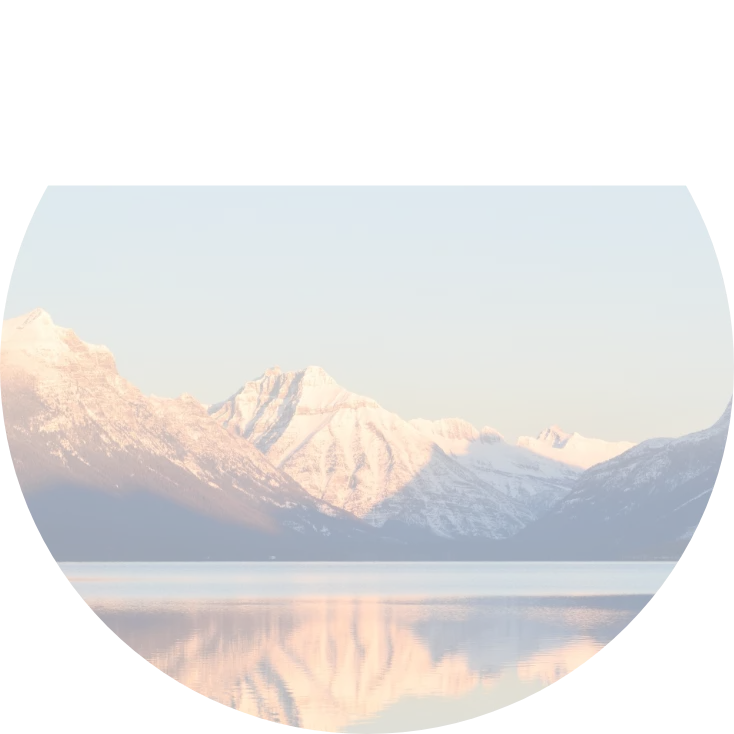
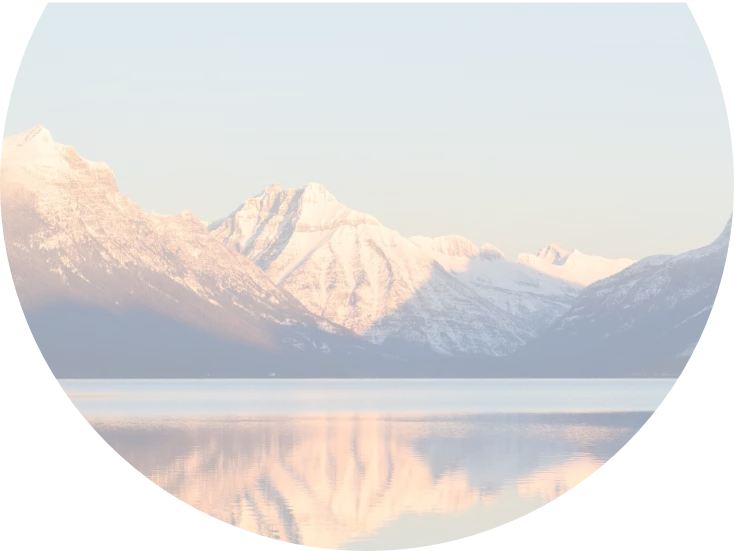
mobile views updated for login and signup

diff --git a/client/src/app/layouts/no-auth/no-auth.component.scss b/client/src/app/layouts/no-auth/no-auth.component.scss
@@ -16,7 +16,7 @@ $image-height: 300px;
 		padding: 25px;
 		position: relative;
 		
-		.mobile-bg {
+		.mobile-bg-signup {
 			width: $image-width;
 			position: fixed;
 			top: 0;
@@ -26,6 +26,29 @@ $image-height: 300px;
 				position: fixed;
 				top: -7rem;
 				right: -2rem;
+				width: $image-width;
+				height: $image-height;
+				background-color: rgba(255, 162, 90, .1);
+				border-radius: 50%;
+			}
+
+			img {
+				width: 100%;
+			}
+		}
+
+		.mobile-bg-login {
+			width: $image-width;
+			position: fixed;
+			bottom: -13rem;
+			left: 50%;
+			transform: translateX(-50%);
+
+			.circle {
+				position: fixed;
+				bottom: -1rem;
+				left: 2rem;
+				transform: translateX(-50%);
 				width: $image-width;
 				height: $image-height;
 				background-color: rgba(255, 162, 90, .1);
@@ -122,7 +145,11 @@ $image-height: 300px;
 	.no-auth-layout {
 		grid-template-columns: 1fr 1fr;
 		.left {
-			.mobile-bg {
+			.mobile-bg-signup {
+				display: none;
+			}
+
+			.mobile-bg-login {
 				display: none;
 			}
 		}

diff --git a/client/src/app/layouts/no-auth/no-auth.component.ts b/client/src/app/layouts/no-auth/no-auth.component.ts
@@ -1,4 +1,5 @@
 import { Component, OnInit } from '@angular/core';
+import { Router } from '@angular/router';
 
 @Component({
   selector: 'app-no-auth',
@@ -8,12 +9,32 @@ import { Component, OnInit } from '@angular/core';
 export class NoAuthComponent implements OnInit {
 
   isLoading = false;
+  currentUrl: string;
 
   // Bg image
-  image = '../../../../assets/mountains-circle-transparent.png';
-  constructor() { }
+  image: string;
+  constructor(private router: Router) {
+    router.events.subscribe((val) => {
+      this.setBgImage();
+    });
+  }
 
-  ngOnInit() {
+  ngOnInit() {}
+
+  setBgImage() {
+    this.currentUrl = this.router.url;
+
+    switch (this.currentUrl) {
+      case '/signup':
+        this.image = '../../../../assets/mountains-circle-transparent.webp';
+        break;
+      case '/login':
+        this.image = '../../../assets/mountains-circle-bottom.webp';
+        break;
+      default:
+        this.image = '';
+        break;
+    }
   }
 
 }

diff --git a/client/src/app/layouts/no-auth/no-auth.component.html b/client/src/app/layouts/no-auth/no-auth.component.html
@@ -3,10 +3,16 @@
 
 <div class="no-auth-layout">
     <div class="left">
-        <div class="mobile-bg">
+        <div class="mobile-bg-signup" *ngIf="currentUrl === '/signup'">
             <div class="circle"></div>
             <img [src]="image" alt="Mountains">
         </div>
+
+        <div class="mobile-bg-login" *ngIf="currentUrl === '/login'">
+            <div class="circle"></div>
+            <img [src]="image" alt="Mountains">
+        </div>
+
         <h1>Everest</h1>
         <p>Free academic resoures curated by the community
             for the community
